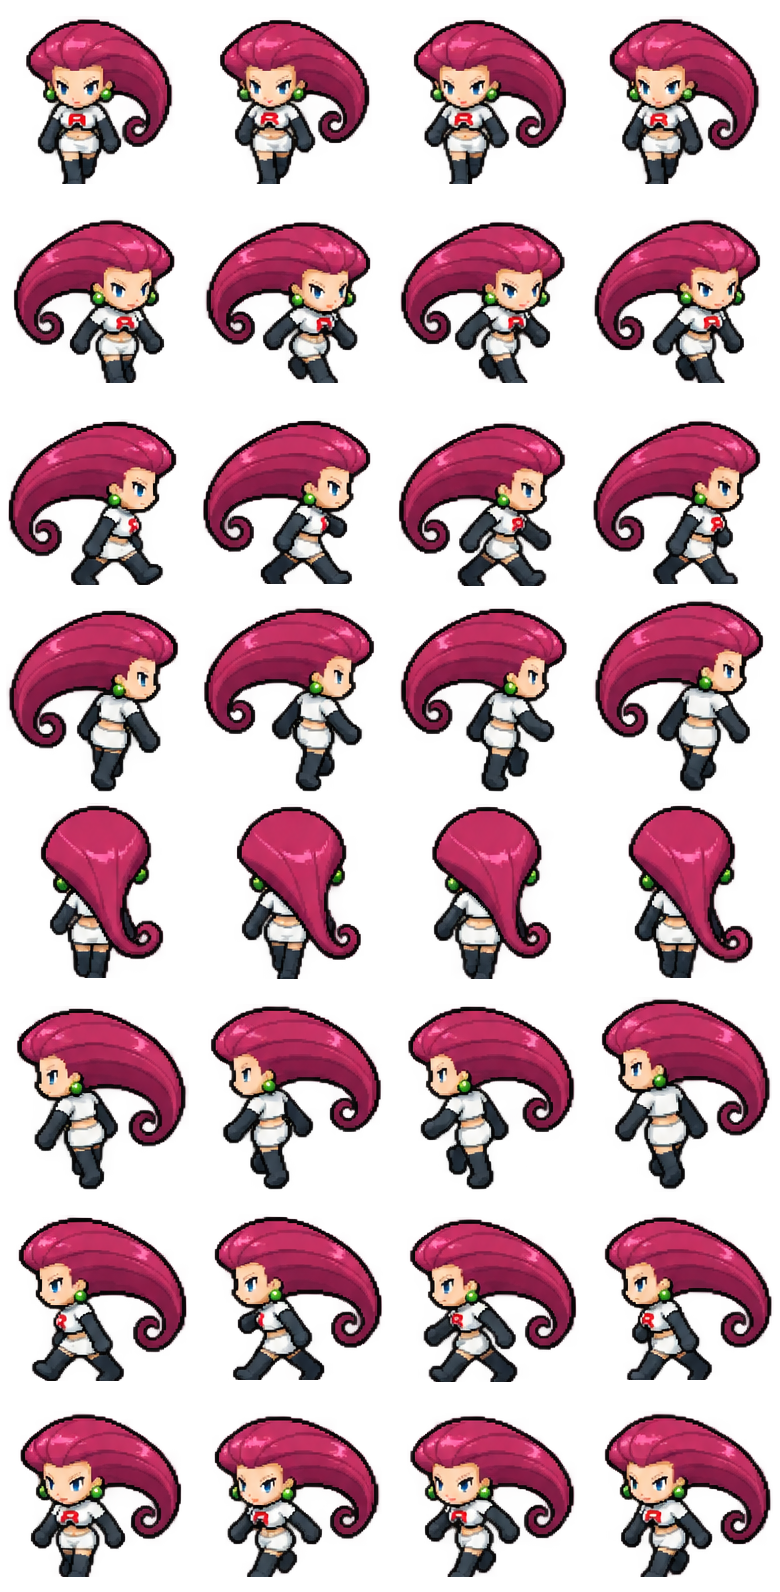
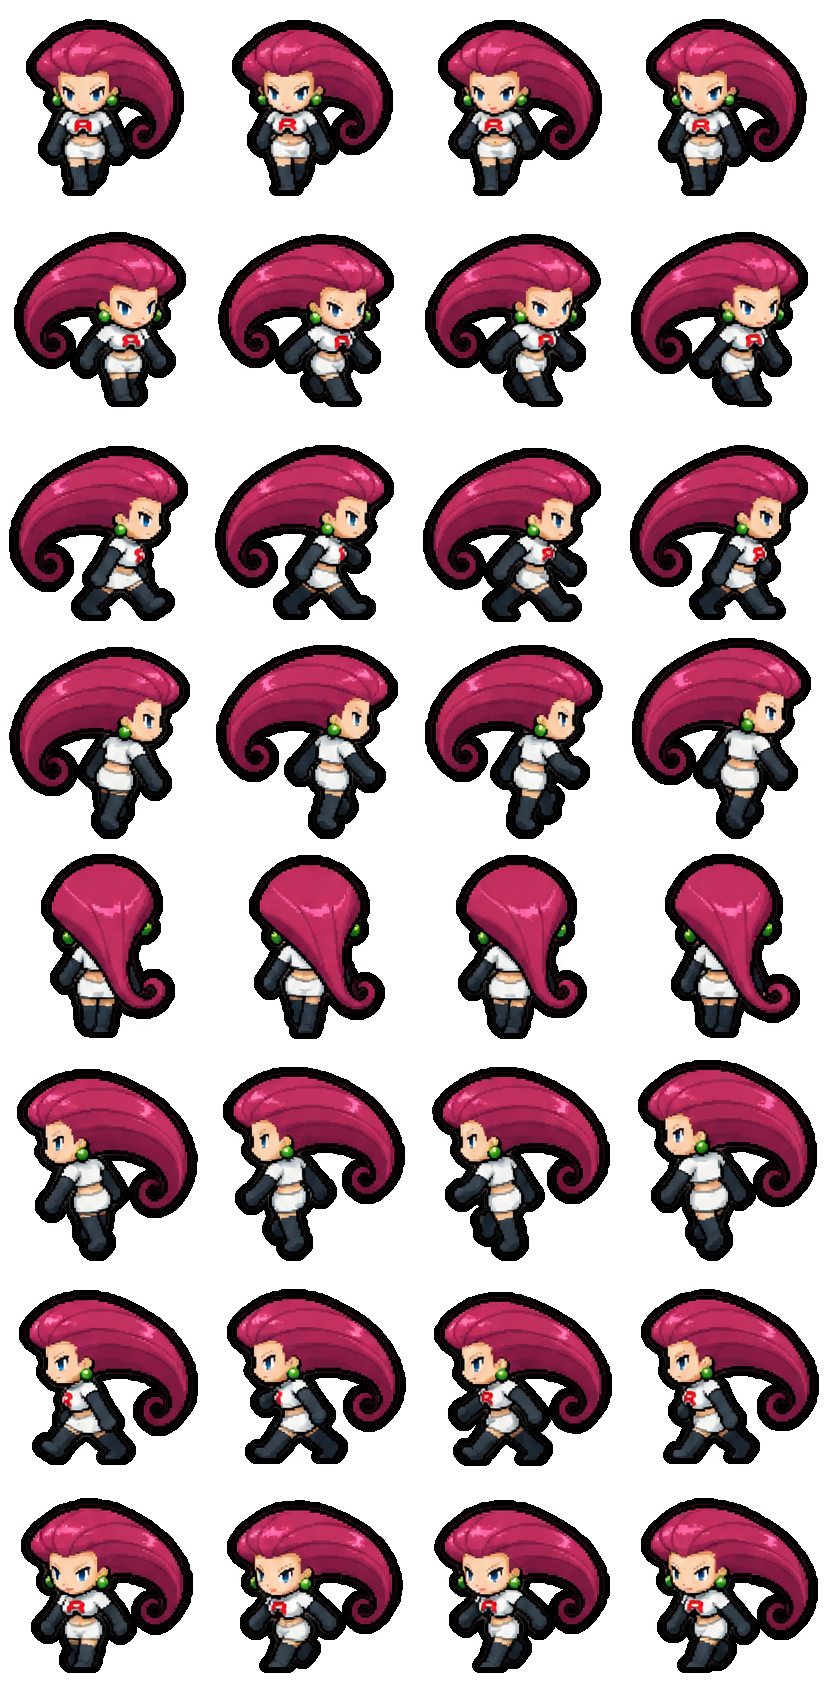
fix(pokedex,skins): cards alinhados e contorno preto nos treinadores
Pokedex: grid-auto-rows max-content (a altura travada da lista espremia as
linhas e o nome ficava sobre o Abates) e cards com nome numa linha so e tipos na
de baixo, todos da mesma altura.

Skins: o importador agora desenha um contorno preto em volta do corpo, com
espessura proporcional a altura da fonte (~1 px de mundo), como o dos sprites
dos Pokemon. Folhas regeradas; o quadro cresce em volta pra caber.

Changed region(s): [[0.0, 0.0, 0.4923, 1.0], [0.7385, 0.0, 1.0, 1.0], [0.4923, 0.0, 0.7385, 1.0]]

diff --git a/scripts/arte/treinadoresSemCorte.test.ts b/scripts/arte/treinadoresSemCorte.test.ts
@@ -4,6 +4,9 @@
 // largo o boneco atravessa a divisa — Carvalho perdia 87 a 134 px de altura de
 // casaco, Jessie 65 a 76.
 //
+// O CONTORNO PRETO (15/10/2026) e ignorado na conta: ele acompanha a silhueta e
+// somaria a altura de um corte reto qualquer. So pixel de corpo conta.
+//
 // Detector: a coluna de pixels opacos mais a esquerda/direita de um quadro e,
 // num corpo inteiro, uma ponta de braco ou casaco (poucas dezenas de pixels).
 // Uma coluna com mais que o limite e um corte reto.
@@ -16,6 +19,9 @@ import quadros from '../../src/data/quadrosDoTreinador.json'
 const RAIZ = join(__dirname, '..', '..')
 // Folga acima do maior valor "natural" medido (35 px: braco estendido).
 const LIMITE_DE_CORTE_RETO = 50
+// Soma R+G+B abaixo disto e o contorno preto (puro: 0). A arte original tem
+// bordas escuras, mas marrons/azuis, bem acima disto.
+const CONTORNO_PRETO = 30
 
 function cortesRetos(skin: string, anim: 'Walk' | 'Idle'): string[] {
   const { frameWidth: fw, frameHeight: fh } = quadros[skin as keyof typeof quadros]
@@ -28,7 +34,10 @@ function cortesRetos(skin: string, anim: 'Walk' | 'Idle'): string[] {
       const alturas: number[] = []
       for (let x = 0; x < fw; x++) {
         let n = 0
-        for (let y = 0; y < fh; y++) if (p.data[((r * fh + y) * p.width + c * fw + x) * 4 + 3] > 200) n++
+        for (let y = 0; y < fh; y++) {
+          const i = ((r * fh + y) * p.width + c * fw + x) * 4
+          if (p.data[i + 3] > 200 && p.data[i] + p.data[i + 1] + p.data[i + 2] > CONTORNO_PRETO) n++
+        }
         alturas.push(n)
       }
       const ocupadas = alturas.map((n, i) => (n ? i : -1)).filter((i) => i >= 0)
@@ -65,5 +74,20 @@ describe('skins de treinador em campo', () => {
     }
     const primeira = alturas.findIndex((n) => n > 0)
     expect(alturas[primeira]).toBeGreaterThanOrEqual(LIMITE_DE_CORTE_RETO)
+  })
+})
+
+describe('contorno preto das skins', () => {
+  it('todo quadro tem borda preta opaca em volta do corpo', () => {
+    for (const skin of Object.keys(quadros)) {
+      const { frameWidth: fw, frameHeight: fh } = quadros[skin as keyof typeof quadros]
+      const p = PNG.sync.read(readFileSync(join(RAIZ, `assets/treinadores/campo/${skin}/Idle-Anim.png`)))
+      let pretos = 0
+      for (let y = 0; y < fh; y++) for (let x = 0; x < fw; x++) {
+        const i = (y * p.width + x) * 4
+        if (p.data[i + 3] === 255 && p.data[i] + p.data[i + 1] + p.data[i + 2] <= 3) pretos++
+      }
+      expect(pretos, `${skin}: o primeiro quadro nao tem contorno preto`).toBeGreaterThan(200)
+    }
   })
 })

diff --git a/src/components/game/journey.css b/src/components/game/journey.css
@@ -457,14 +457,18 @@
    parava em 27em e sobrava um bloco vazio embaixo. `height: 0` + `min-height: 100%`
    tira a lista da conta da altura da linha, entao quem manda e a ficha. */
 .journey-dex-workspace { display: grid; grid-template-columns: minmax(0, .85fr) minmax(0, 1.15fr); gap: .6em; align-items: stretch; }
-.journey-dex-grid { display: grid; grid-template-columns: repeat(3, minmax(0, 1fr)); gap: .3em; height: 0; min-height: 100%; overflow-y: auto; padding: .15em; align-content: start; }
+/* `grid-auto-rows: max-content`: com a altura da lista travada em 0, as linhas
+   automaticas eram espremidas e os cards ficavam com o nome sobre o "Abates". */
+.journey-dex-grid { display: grid; grid-template-columns: repeat(3, minmax(0, 1fr)); grid-auto-rows: max-content; gap: .3em; height: 0; min-height: 100%; overflow-y: auto; padding: .15em; align-content: start; }
 /* Setas de anterior/proximo: alvo de toque de verdade, nao um icone fantasma. */
 .journey-dex-seta { width: 2.6em; height: 2.6em; min-height: 44px; min-width: 44px; padding: 0; flex-shrink: 0; font-size: 1.25em; font-weight: 700; }
 .journey-dex-choice { display: grid; grid-template-columns: auto minmax(0, 1fr); align-items: center; gap: .15em .3em; padding: .3em; font-size: .85em; text-align: left; }
 .journey-dex-choice > :first-child { grid-row: 1 / 3; }
 .journey-dex-choice > span:last-child { grid-column: 2; }
 .journey-dex-choice > div { flex: none; }
-.journey-dex-choice > div > div { gap: .2em; }
+.journey-dex-nome { overflow: hidden; text-overflow: ellipsis; white-space: nowrap; line-height: 1.25; }
+/* Altura fixa da linha de tipos: carta de um tipo e de dois ocupam o mesmo espaco. */
+.journey-dex-tipos { display: flex; align-items: center; gap: .2em; min-height: 1.5em; overflow: hidden; }
 .journey-dex-focus { min-width: 0; border: 1px solid var(--journey-line); border-radius: .7em; overflow: hidden; background: var(--journey-card); }
 .journey-research-heading { display: flex; align-items: center; gap: .3em; padding: .35em; background: linear-gradient(120deg, var(--journey-wash), transparent); }
 .journey-research-heading > div { min-width: 0; flex: 1; overflow-wrap: anywhere; }

diff --git a/src/features/pokedex/PokedexMenu.tsx b/src/features/pokedex/PokedexMenu.tsx
@@ -437,10 +437,15 @@ export function PokedexMenu() {
               className="journey-dex-choice"
             >
               <PokeSwatch species={species} size={2.4} />
+              {/* Nome numa linha so (reticencias) e tipos na de baixo: com a quebra
+                  livre, nome comprido empurrava os tipos e os cards saiam com
+                  alturas diferentes, desalinhando a grade. */}
               <div className="min-w-0 flex-1">
-                <div className="flex flex-wrap items-center gap-[.4em]">
-                  <span className="text-menu-muted">#{dexNumber(species)}</span>
+                <div className="journey-dex-nome">
+                  <span className="text-menu-muted">#{dexNumber(species)}</span>{' '}
                   <span className="font-medium">{species.name}</span>
+                </div>
+                <div className="journey-dex-tipos">
                   <TypeChip type={species.type} />
                   {species.type2 && <TypeChip type={species.type2} />}
                 </div>
